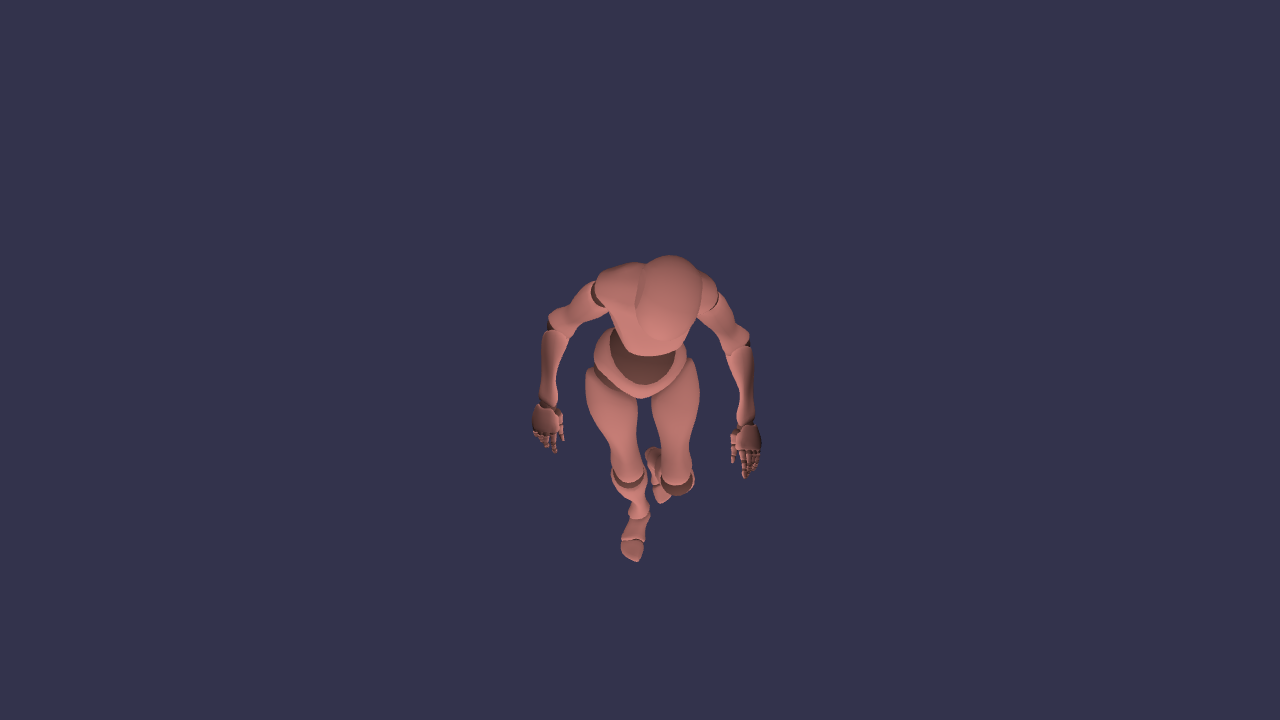
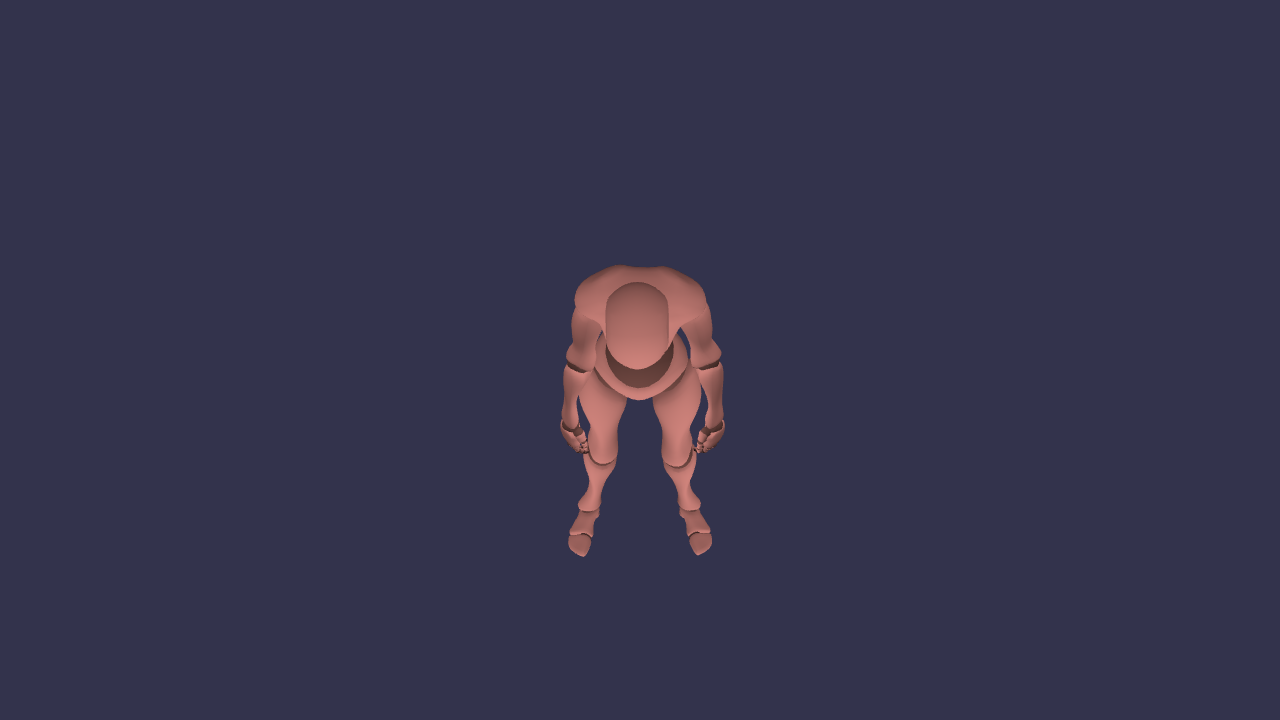
Tighten animation blend parity

Changed region(s): [[0.4062, 0.3361, 0.5938, 0.7944]]

diff --git a/packages/babylon-lite/src/animation/weighted-gltf-mixer.ts b/packages/babylon-lite/src/animation/weighted-gltf-mixer.ts
@@ -271,19 +271,28 @@ function accumulateGroup(manager: AnimationManager, scratch: WeightedGltfScratch
             case PATH_ROTATION: {
                 evaluateSampler(sampler, t, 4, true, scratch.sample, 0);
                 if (target.rWeight[nodeIdx] === 0) {
-                    target.trs[base + R_OFF] = 0;
-                    target.trs[base + R_OFF + 1] = 0;
-                    target.trs[base + R_OFF + 2] = 0;
-                    target.trs[base + R_OFF + 3] = 0;
+                    target.trs[base + R_OFF] = scratch.sample[0]!;
+                    target.trs[base + R_OFF + 1] = scratch.sample[1]!;
+                    target.trs[base + R_OFF + 2] = scratch.sample[2]!;
+                    target.trs[base + R_OFF + 3] = scratch.sample[3]!;
+                    target.rWeight[nodeIdx] = weight;
+                    break;
                 }
-                const n = target.nodes[nodeIdx]!;
-                const dot = n.rx * scratch.sample[0]! + n.ry * scratch.sample[1]! + n.rz * scratch.sample[2]! + n.rw * scratch.sample[3]!;
-                const sign = dot < 0 ? -1 : 1;
-                target.trs[base + R_OFF] = target.trs[base + R_OFF]! + scratch.sample[0]! * weight * sign;
-                target.trs[base + R_OFF + 1] = target.trs[base + R_OFF + 1]! + scratch.sample[1]! * weight * sign;
-                target.trs[base + R_OFF + 2] = target.trs[base + R_OFF + 2]! + scratch.sample[2]! * weight * sign;
-                target.trs[base + R_OFF + 3] = target.trs[base + R_OFF + 3]! + scratch.sample[3]! * weight * sign;
-                target.rWeight[nodeIdx] = target.rWeight[nodeIdx]! + weight;
+                const accumulatedWeight = target.rWeight[nodeIdx]!;
+                quatSlerpInto(
+                    target.trs,
+                    base + R_OFF,
+                    target.trs[base + R_OFF]!,
+                    target.trs[base + R_OFF + 1]!,
+                    target.trs[base + R_OFF + 2]!,
+                    target.trs[base + R_OFF + 3]!,
+                    scratch.sample[0]!,
+                    scratch.sample[1]!,
+                    scratch.sample[2]!,
+                    scratch.sample[3]!,
+                    weight / (accumulatedWeight + weight)
+                );
+                target.rWeight[nodeIdx] = accumulatedWeight + weight;
                 break;
             }
         }
@@ -292,7 +301,8 @@ function accumulateGroup(manager: AnimationManager, scratch: WeightedGltfScratch
 
 function advanceGroupTime(group: AnimationGroup, mixer: AnimationGltfMixer, deltaMs: number): number {
     const clip = mixer[GLTF_CLIP];
-    if (group.isPlaying) {
+    const isPlaying = group.isPlaying;
+    if (isPlaying) {
         group.currentFrame += (deltaMs / 1000) * group.speedRatio;
     }
 
@@ -305,7 +315,7 @@ function advanceGroupTime(group: AnimationGroup, mixer: AnimationGltfMixer, delt
         return fromTime;
     }
 
-    if (group.loopAnimation) {
+    if (group.loopAnimation && isPlaying) {
         group.currentFrame = fromTime + ((group.currentFrame - fromTime) % duration);
         if (group.currentFrame < fromTime) {
             group.currentFrame += duration;
@@ -324,7 +334,12 @@ function uploadTarget(manager: AnimationManager, target: WeightedGltfTarget): vo
     const { nodes, trs, localMat, worldMat } = target;
 
     for (let i = 0; i < nodes.length; i++) {
-        if (target.rWeight[i]! > 0) {
+        const rotationWeight = target.rWeight[i]!;
+        if (rotationWeight > 0 && rotationWeight < 1) {
+            const off = i * TRS_STRIDE + R_OFF;
+            const node = nodes[i]!;
+            quatSlerpInto(trs, off, node.rx, node.ry, node.rz, node.rw, trs[off]!, trs[off + 1]!, trs[off + 2]!, trs[off + 3]!, rotationWeight);
+        } else if (rotationWeight > 0) {
             normalizeQuaternionAt(trs, i * TRS_STRIDE + R_OFF);
         }
     }

diff --git a/lab/src/bjs/scene158.ts b/lab/src/bjs/scene158.ts
@@ -30,32 +30,19 @@ const POSE_FRAME = 2;
 
     await SceneLoader.ImportMeshAsync("", "https://playground.babylonjs.com/scenes/", "Xbot.glb", scene);
 
-    const walk = requireGroup(scene.animationGroups, "walk");
+    const idle = requireGroup(scene.animationGroups, "idle");
     const sadPose = AnimationGroup.MakeAnimationAdditive(requireGroup(scene.animationGroups, "sad_pose"));
-    const sneakPose = AnimationGroup.MakeAnimationAdditive(requireGroup(scene.animationGroups, "sneak_pose"));
-    const headShake = AnimationGroup.MakeAnimationAdditive(requireGroup(scene.animationGroups, "headShake"));
-    const agree = AnimationGroup.MakeAnimationAdditive(requireGroup(scene.animationGroups, "agree"));
 
     for (const group of scene.animationGroups) {
         group.stop();
         group.weight = 0;
     }
-    const activeGroups = [walk, sadPose, sneakPose, headShake, agree];
-    for (const group of activeGroups) {
-        group.loopAnimation = true;
-        group.play(true);
-    }
 
-    walk.weight = 1;
-    sadPose.weight = 0.35;
-    sneakPose.weight = 0.2;
-    headShake.weight = 0.6;
-    agree.weight = 0.25;
-
-    sadPose.goToFrame(POSE_FRAME, true);
-    sadPose.pause();
-    sneakPose.goToFrame(POSE_FRAME, true);
-    sneakPose.pause();
+    idle.loopAnimation = true;
+    idle.play(true);
+    idle.weight = 1;
+    sadPose.weight = 1;
+    sadPose.start(true, 1, POSE_FRAME, POSE_FRAME);
 
     engine.getDeltaTime = function () {
         return 16;
@@ -65,10 +52,14 @@ const POSE_FRAME = 2;
     const seekTime = parseFloat(new URLSearchParams(window.location.search).get("seekTime") || "");
     if (Number.isFinite(seekTime)) {
         const seekFrame = seekTime * 60;
-        for (const group of activeGroups) {
-            group.goToFrame(group === sadPose || group === sneakPose ? POSE_FRAME : seekFrame, true);
-            group.pause();
-        }
+        idle.pause();
+        sadPose.pause();
+        const applyFrozenPose = () => {
+            idle.goToFrame(seekFrame, true);
+            sadPose.goToFrame(POSE_FRAME, true);
+        };
+        scene.onBeforeAnimationsObservable.add(applyFrozenPose);
+        applyFrozenPose();
         canvas.dataset.animationFrozen = "true";
     }
 

diff --git a/lab/src/lite/scene158.ts b/lab/src/lite/scene158.ts
@@ -47,33 +47,27 @@ async function main(): Promise<void> {
 
     const manager = createAnimationManager({ engine });
     const groups = xbot.animationGroups ?? [];
-    addAnimationGroups(manager, groups);
     for (const group of groups) {
         stopAnimation(group);
         setAnimationWeight(group, 0);
     }
 
-    const walk = requireGroup(groups, "walk");
+    const idle = requireGroup(groups, "idle");
     const sadPose = requireGroup(groups, "sad_pose");
-    const sneakPose = requireGroup(groups, "sneak_pose");
-    const headShake = requireGroup(groups, "headShake");
-    const agree = requireGroup(groups, "agree");
+    const activeGroups = [idle, sadPose];
+    addAnimationGroups(manager, activeGroups);
 
-    walk.loopAnimation = true;
-    playAnimation(walk);
-    setAnimationWeight(walk, 1);
+    idle.loopAnimation = true;
+    playAnimation(idle);
+    setAnimationWeight(idle, 1);
 
-    setAdditivePose(sadPose, 0.35);
-    setAdditivePose(sneakPose, 0.2);
-    setAdditiveLoop(headShake, 0.6);
-    setAdditiveLoop(agree, 0.25);
-    const activeGroups = [walk, sadPose, sneakPose, headShake, agree];
+    setAdditivePose(sadPose, 1);
     enableAnimationBlending(manager);
 
     const seekTime = parseFloat(new URLSearchParams(window.location.search).get("seekTime") || "");
     if (Number.isFinite(seekTime)) {
         for (const group of activeGroups) {
-            group.currentFrame = group === sadPose || group === sneakPose ? POSE_TIME : seekTime;
+            group.currentFrame = group === sadPose ? POSE_TIME : seekTime;
             pauseAnimation(group);
         }
         canvas.dataset.animationFrozen = "true";
@@ -102,13 +96,6 @@ function setAdditivePose(group: AnimationGroup, weight: number): void {
     setAnimationWeight(group, weight);
     group.currentFrame = POSE_TIME;
     pauseAnimation(group);
-}
-
-function setAdditiveLoop(group: AnimationGroup, weight: number): void {
-    group.loopAnimation = true;
-    playAnimation(group);
-    setAnimationAdditive(group, { referenceFrame: 0 });
-    setAnimationWeight(group, weight);
 }
 
 main().catch(console.error);

diff --git a/lab/src/lite/scene157.ts b/lab/src/lite/scene157.ts
@@ -44,7 +44,6 @@ async function main(): Promise<void> {
     addToScene(scene, xbot, { registerAnimationGroups: false });
 
     const manager = createAnimationManager({ engine });
-    addAnimationGroups(manager, xbot.animationGroups ?? []);
     const walk = xbot.animationGroups?.find((group) => group.name === "walk");
     const run = xbot.animationGroups?.find((group) => group.name === "run");
     if (!walk || !run) {
@@ -58,6 +57,7 @@ async function main(): Promise<void> {
         group.loopAnimation = true;
         playAnimation(group);
     }
+    addAnimationGroups(manager, [walk, run]);
     setAnimationWeight(walk, WALK_WEIGHT);
     setAnimationWeight(run, RUN_WEIGHT);
     enableAnimationBlending(manager);